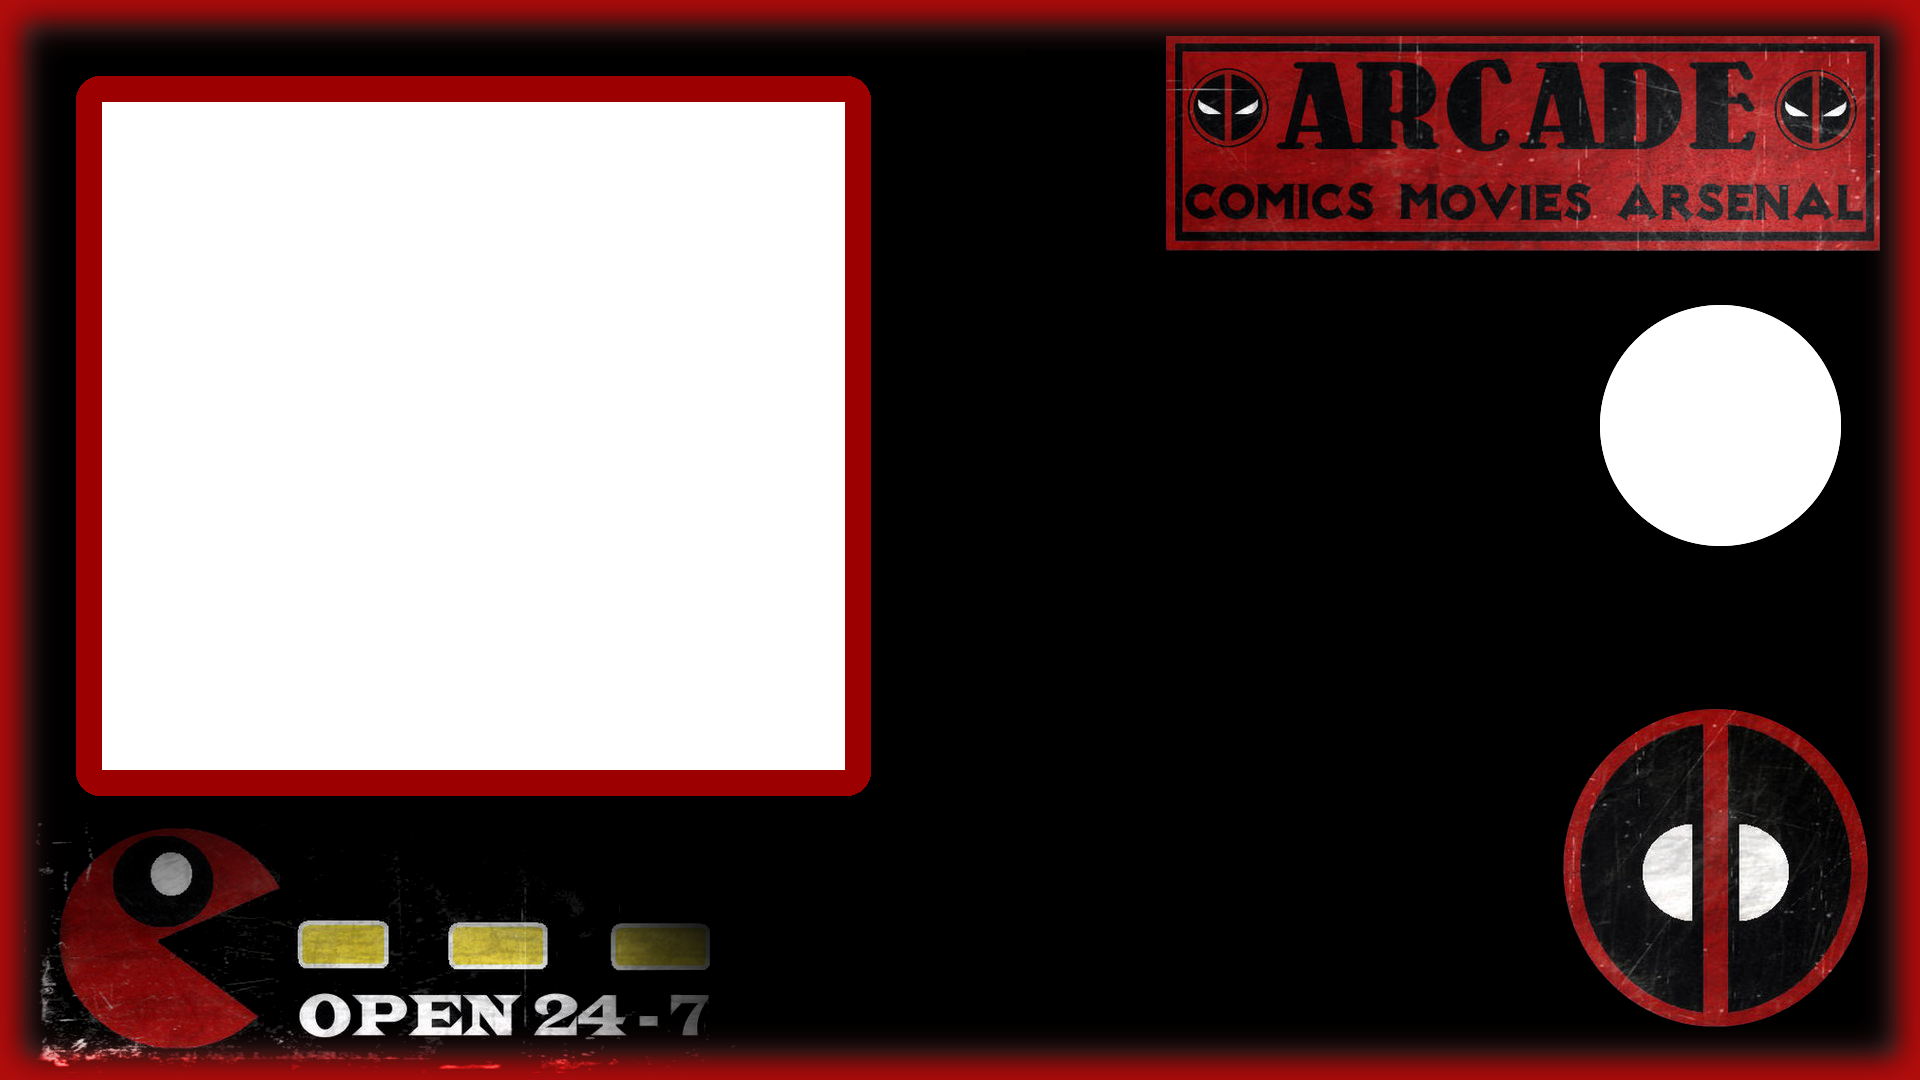
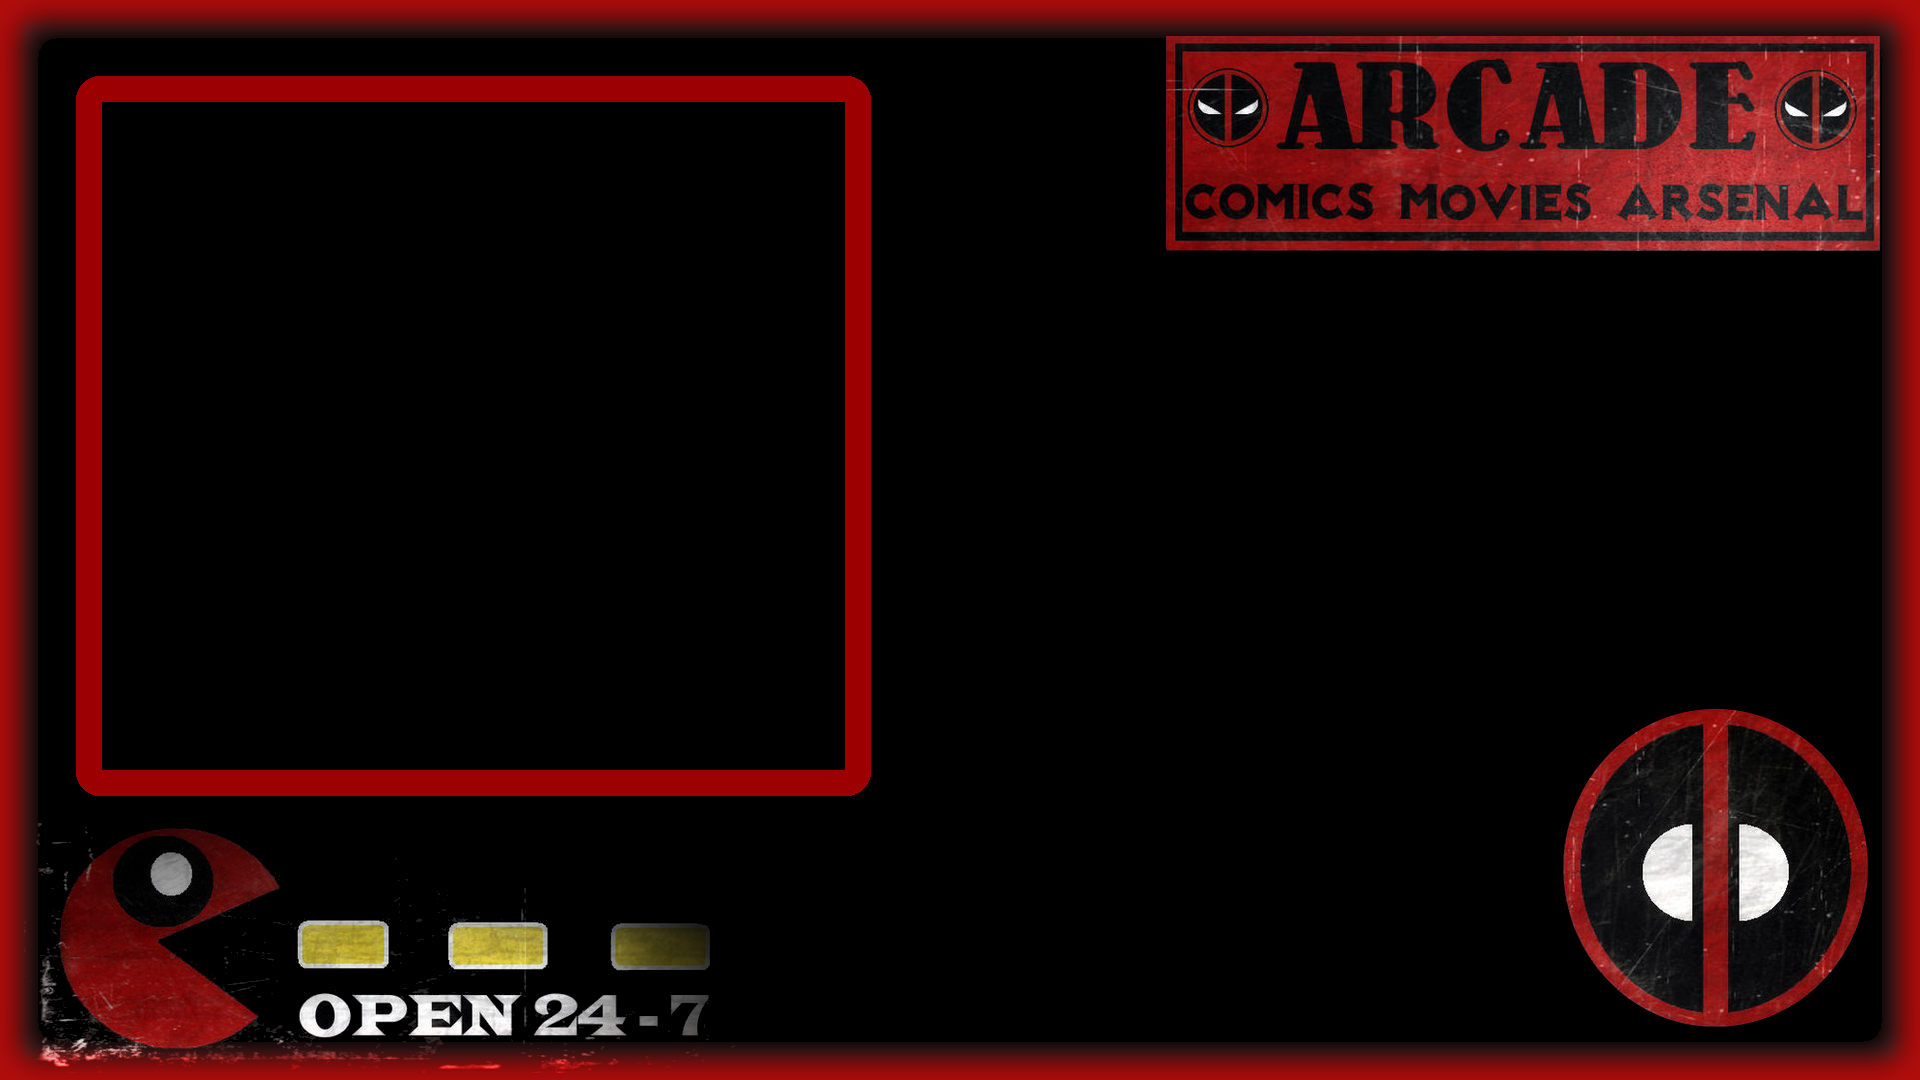
Ajout menu OK: 3 entite (bug deplacement droite *3)

Changed region(s): [[0.0312, 0.0917, 0.4375, 0.7333], [0.8125, 0.275, 0.9688, 0.5194]]

diff --git a/start.py b/start.py
@@ -33,7 +33,7 @@ ROMS=(ROOT_HOME + "/MEDIA/ROMS/")
 DOCS=(ROOT_HOME + "/MEDIA/DOCS/")
 IMG=(ROOT_HOME + "/MEDIA/IMG/")
 BACKGROUNG=(ROOT_HOME + "/MEDIA/IMG/bg2.png")
-BACKGROUNG_EMU=(ROOT_HOME + "/MEDIA/IMG/black.png")
+BACKGROUNG_EMU=(ROOT_HOME + "/MEDIA/IMG/menu.png")
 IMG_EMU = (ROOT_HOME + "/MEDIA/IMG/EMU/")
 BACKGROUNG_START=(ROOT_HOME + "/MEDIA/IMG/dpfe_welcom.png")
 font = pygame.font.SysFont("comicsansms", 35)
@@ -62,14 +62,19 @@ WHERE_BIN_X = SCREEN_W  - WHERE_SNAP_X - int(floor(WHERE_SNAP_X/4))
 WHERE_BIN_Y =  WHERE_SNAP_Y
 SLEEP_BEFORE_START = 1
 
+SIZE_BIN_X_1 = int(floor(SCREEN_W / 3))
+SIZE_BIN_Y_1 = SIZE_BIN_X_1
+
 WHERE_BIN_1_X=int(floor(SCREEN_W / 2))
 WHERE_BIN_2_X=int(floor(WHERE_BIN_1_X/ 2))
 WHERE_BIN_3_X=int(floor(WHERE_BIN_1_X + WHERE_BIN_2_X))
 WHERE_BIN_1_Y=int(floor(SCREEN_H / 2))
 WHERE_BIN_2_Y=WHERE_BIN_1_Y
 WHERE_BIN_3_Y=WHERE_BIN_1_Y
-WHERE_BIN_1=(WHERE_BIN_1_X-100,WHERE_BIN_1_Y-100)
-SIZE_WHERE_BIN_1=(200,200)
+WHERE_BIN_1=(int(floor(SCREEN_W / 2))-(SIZE_BIN_X_1/2),int(floor(SCREEN_H / 2))-(SIZE_BIN_Y_1/2))
+SIZE_WHERE_BIN_1=(SIZE_BIN_X_1,SIZE_BIN_Y_1)
+WHERE_BIN_G=( int(floor(SCREEN_W / 3)-SIZE_BIN_X_1/2),int(floor(SCREEN_H / 2))-SIZE_BIN_Y_1/2)
+WHERE_BIN_D=( int(floor(SCREEN_W * 2 / 3)-SIZE_BIN_X_1/2),int(floor(SCREEN_H / 2))-SIZE_BIN_Y_1/2)
 
 #FENETRE PRINCIPAL #####################################
 fenetre = [SCREEN_W, SCREEN_H]
@@ -141,9 +146,16 @@ else:
 ###################################################################
 ###################################################################
 def affiche_menu():
+
 	IMG_EMU_PATH=IMG_EMU + emu[CPT_EMU] +".png"
+	IMG_EMU_PATH_D=IMG_EMU + emu[CPT_EMU+1] +".png"
+	IMG_EMU_PATH_G=IMG_EMU + emu[CPT_EMU-1] +".png"
+	print str(CPT_EMU-1) + " " + str(CPT_EMU) + " " + str(CPT_EMU+1)
+	print emu[CPT_EMU-1] + " " + emu[CPT_EMU] + " " + emu[CPT_EMU+1]
 
 	fenetre.blit(pygame.transform.scale(pygame.image.load(BACKGROUNG_EMU).convert_alpha(),(SCREEN_W,SCREEN_H)),(0,0))
+	fenetre.blit(pygame.transform.scale(pygame.image.load(IMG_EMU_PATH_D).convert_alpha(),(SIZE_WHERE_BIN_1)),(WHERE_BIN_D))
+	fenetre.blit(pygame.transform.scale(pygame.image.load(IMG_EMU_PATH_G).convert_alpha(),(SIZE_WHERE_BIN_1)),(WHERE_BIN_G))
 	fenetre.blit(pygame.transform.scale(pygame.image.load(IMG_EMU_PATH).convert_alpha(),(SIZE_WHERE_BIN_1)),(WHERE_BIN_1))
 	pygame.display.update()
 
@@ -407,14 +419,16 @@ while continuer:
 #		COMPTEUR MAX / MIN Pour exception
 ###################################################################			
 				#buf.play()
-			if CPT <= NMAX:
+			if CPT < NMAX:
 				CPT = 0
 			if CPT > MAX:
 				CPT = 0
+
 			if CPT_EMU < NMAX_EMU:
 				CPT_EMU = 0
 			if CPT_EMU > MAX_EMU:
 				CPT_EMU = 0
+
 			if MAX_EMU == 0:
 				CPT_EMU=0
 
